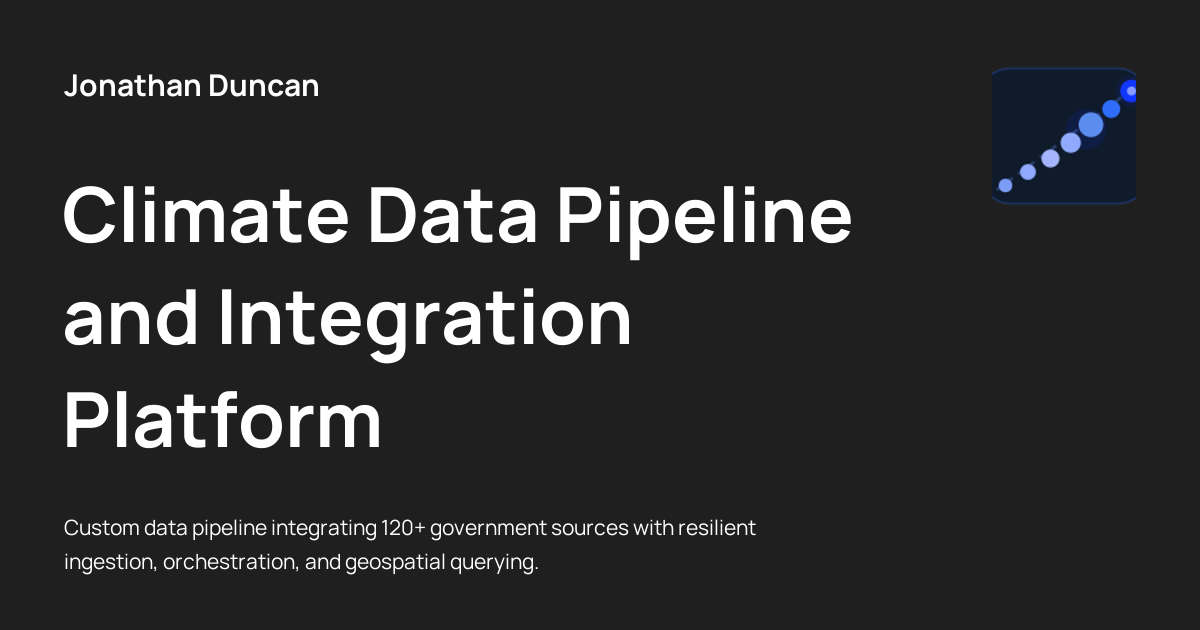
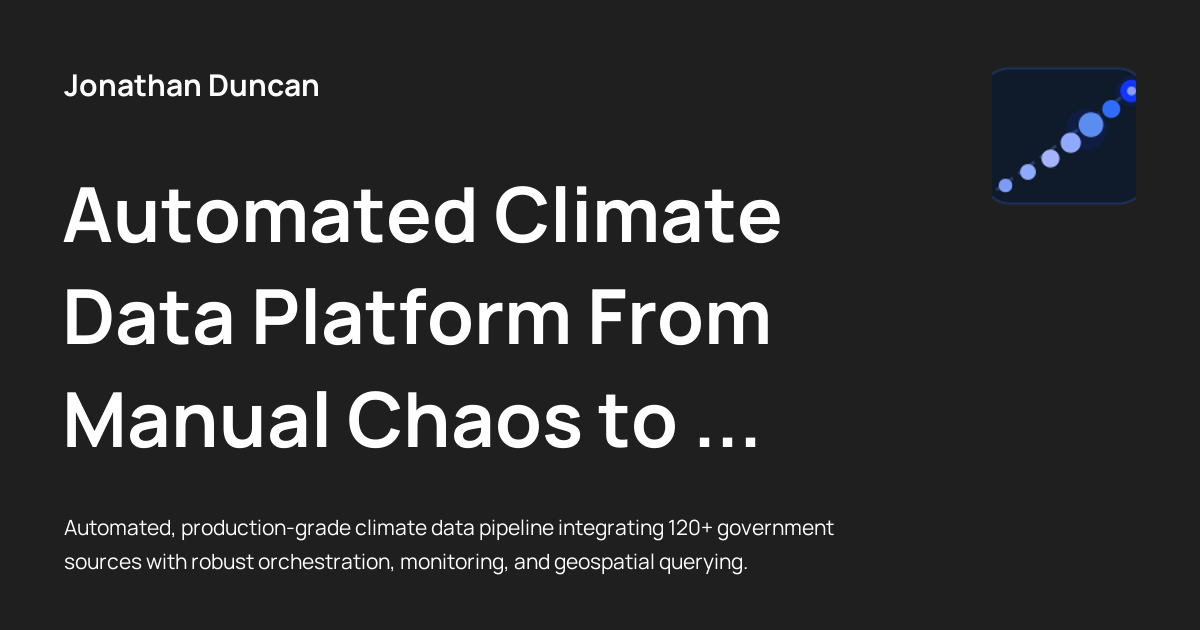
Add new project URLs to sitemap.xml and update sitemap.gz

diff --git a/site/portfolio/projects/climate-data-pipeline/index.html b/site/portfolio/projects/climate-data-pipeline/index.html
@@ -6,7 +6,7 @@
       <meta charset="utf-8">
       <meta name="viewport" content="width=device-width,initial-scale=1">
       
-        <meta name="description" content="Custom data pipeline integrating 120+ government sources with resilient ingestion, orchestration, and geospatial querying.">
+        <meta name="description" content="Automated, production-grade climate data pipeline integrating 120+ government sources with robust orchestration, monitoring, and geospatial querying.">
       
       
       
@@ -27,7 +27,7 @@
     
     
       
-        <title>Climate Data Pipeline and Integration Platform - Jonathan Duncan</title>
+        <title>Automated Climate Data Platform From Manual Chaos to Enterprise-Grade Reliability - Jonathan Duncan</title>
       
     
     
@@ -71,16 +71,16 @@
 
   
 <meta property="og:type" content="website" />
-<meta property="og:title" content="Climate Data Pipeline and Integration Platform - Jonathan Duncan" />
-<meta property="og:description" content="Custom data pipeline integrating 120+ government sources with resilient ingestion, orchestration, and geospatial querying." />
+<meta property="og:title" content="Automated Climate Data Platform From Manual Chaos to Enterprise-Grade Reliability - Jonathan Duncan" />
+<meta property="og:description" content="Automated, production-grade climate data pipeline integrating 120+ government sources with robust orchestration, monitoring, and geospatial querying." />
 <meta property="og:image" content="https://jonathanduncan.pro/assets/images/social/portfolio/projects/climate-data-pipeline.png" />
 <meta property="og:image:type" content="image/png" />
 <meta property="og:image:width" content="1200" />
 <meta property="og:image:height" content="630" />
 <meta property="og:url" content="https://jonathanduncan.pro/portfolio/projects/climate-data-pipeline/" />
 <meta property="twitter:card" content="summary_large_image" />
-<meta property="twitter:title" content="Climate Data Pipeline and Integration Platform - Jonathan Duncan" />
-<meta property="twitter:description" content="Custom data pipeline integrating 120+ government sources with resilient ingestion, orchestration, and geospatial querying." />
+<meta property="twitter:title" content="Automated Climate Data Platform From Manual Chaos to Enterprise-Grade Reliability - Jonathan Duncan" />
+<meta property="twitter:description" content="Automated, production-grade climate data pipeline integrating 120+ government sources with robust orchestration, monitoring, and geospatial querying." />
 <meta property="twitter:image" content="https://jonathanduncan.pro/assets/images/social/portfolio/projects/climate-data-pipeline.png" />
 </head>
   
@@ -145,7 +145,7 @@
         <div class="md-header__topic" data-md-component="header-topic">
           <span class="md-ellipsis">
             
-              Climate Data Pipeline and Integration Platform
+              Automated Climate Data Platform From Manual Chaos to Enterprise-Grade Reliability
             
           </span>
         </div>
@@ -590,6 +590,17 @@
 </li>
       
         <li class="md-nav__item">
+  <a href="#system-architecture" class="md-nav__link">
+    <span class="md-ellipsis">
+      
+        System Architecture
+      
+    </span>
+  </a>
+  
+</li>
+      
+        <li class="md-nav__item">
   <a href="#approach" class="md-nav__link">
     <span class="md-ellipsis">
       
@@ -622,6 +633,17 @@
   
     <nav class="md-nav" aria-label="Outcomes">
       <ul class="md-nav__list">
+        
+          <li class="md-nav__item">
+  <a href="#before-after" class="md-nav__link">
+    <span class="md-ellipsis">
+      
+        Before &amp; After
+      
+    </span>
+  </a>
+  
+</li>
         
           <li class="md-nav__item">
   <a href="#need-to-unify-data-from-many-unreliable-sources" class="md-nav__link">
@@ -760,37 +782,86 @@
 <div class="admonition abstract">
 <p class="admonition-title">Project Snapshot</p>
 <p><strong>Client type:</strong> Climate research organization<br />
-<strong>Project type:</strong> Data pipeline and integration platform<br />
-<strong>Stack:</strong> Python, Apache Airflow, PostgreSQL/PostGIS, GCP, Google Earth Engine<br />
-<strong>Role:</strong> Sole developer - architecture, build, and deployment<br />
-<strong>Timeline:</strong> Full build and deployment</p>
+<strong>Project type:</strong> Automated data pipeline and integration platform<br />
+<strong>Stack:</strong> Python, Apache Airflow (Cloud Composer), PostgreSQL/PostGIS, GCP<br />
+<strong>Role:</strong> Sole developer — architecture, build, and deployment<br />
+<strong>Timeline:</strong> 3.5+ years of continuous delivery and expansion</p>
 </div>
 <h2 id="challenge">Challenge</h2>
-<p>The client needed reliable aggregation from 120+ government data sources for analysis and reporting. Each source had different APIs, formats, authentication, and update schedules. Manual collection created delays, inconsistent data quality, and significant operational overhead.</p>
+<p>A leading Canadian climate research organization was drowning in manual data collection. With over 120 government sources (GeoMet &amp; PAVICS), each using different APIs, authentication, and data formats, analysts spent weeks wrangling data instead of delivering insights. The lack of automation meant slow updates, high error rates, and no scalable way to add new sources—putting critical research and operational decisions at risk.</p>
 <h2 id="goal">Goal</h2>
-<p>Build a dependable production pipeline that could ingest, normalize, and unify source data automatically, while handling source instability and schema variation over time.</p>
+<p>Deliver a fully automated, production-ready data pipeline that could ingest, normalize, and unify 120+ government data sources, handle source instability, and support advanced geospatial queries—freeing analysts to focus on research, not wrangling.</p>
+<h2 id="system-architecture">System Architecture</h2>
+<pre class="mermaid"><code>flowchart TD
+    subgraph GCP["Google Cloud Platform"]
+        Airflow["Apache Airflow (Cloud Composer)&lt;br&gt;Orchestration"]
+        Storage["GCS Buckets&lt;br&gt;Automated Storage"]
+        DB["PostgreSQL + PostGIS&lt;br&gt;Geospatial DB"]
+        Monitoring["Monitoring &amp; Alerting"]
+    end
+    subgraph Sources["120+ Government Data Sources"]
+        GeoMet["GeoMet APIs"]
+        PAVICS["PAVICS APIs"]
+        Others["Other APIs"]
+    end
+    subgraph Connectors["Modular Connectors"]
+        Connector1["Auth, Parsing,&lt;br&gt;Error Handling"]
+    end
+    Sources --&gt; Connectors
+    Connectors --&gt; Airflow
+    Airflow --&gt; Storage
+    Airflow --&gt; DB
+    Airflow --&gt; Monitoring
+    Storage --&gt; DB
+    DB --&gt;|Geospatial Queries| Analyst["Analyst / Researcher"]
+    Monitoring --&gt;|Alerts, Logs| Analyst
+
+    %% Accessible color tokens (see docs/stylesheets/extra.css)
+    %% --color-royal-blue: #1136FF; --color-cornflower: #2F6CF9; --color-periwinkle: #A5B4FC; --color-amber: #F59E0B;
+    classDef royalblue fill:#1136FF,stroke:#1136FF,stroke-width:2.5px,color:#fff,font-weight:bold;
+    classDef cornflower fill:#2F6CF9,stroke:#1136FF,stroke-width:2.5px,color:#111827,font-weight:bold;
+    classDef periwinkle fill:#A5B4FC,stroke:#2F6CF9,stroke-width:2.5px,color:#111827,font-weight:bold;
+    classDef amber fill:#F59E0B,stroke:#B45309,stroke-width:2.5px,color:#111827,font-weight:bold;
+    classDef quiet fill:#e2e4eb,stroke:#A5B4FC,stroke-width:2px,color:#111827;
+
+    class GCP royalblue;
+    class Airflow,DB cornflower;
+    class Storage,GeoMet,PAVICS,Others,Analyst periwinkle;
+    class Monitoring amber;
+    class Connectors,Connector1 quiet;
+    %% To further reduce intensity, use 'quiet' for more nodes if needed.
+</code></pre>
+<div style="font-size:0.95em;color:#9499b0;margin-top:0.5em">
+<strong>Accessibility & Theming:</strong> Diagram colors use extracted CSS tokens for brand consistency and contrast. For dark/light mode, colors adapt via <code>extra.css</code>.<br>
+<strong>Mobile:</strong> If the diagram overflows, swipe horizontally to view all nodes. For best experience, rotate your device to landscape.
+<strong>Responsive:</strong> On mobile, scroll horizontally to view the full diagram.
+</div>
+
 <h2 id="approach">Approach</h2>
-<p>I designed and implemented a custom pipeline architecture built for source-level variability and operational resilience:</p>
+<p>I designed and implemented a robust, modular pipeline architecture built for scale and operational resilience:</p>
 <ul>
-<li><strong>Source-specific connectors:</strong> Custom logic per data source for API differences, auth methods, and format variations</li>
-<li><strong>Workflow orchestration:</strong> Airflow DAGs to schedule ingestion cadences, dependencies, retries, and failure handling</li>
-<li><strong>Resilience patterns:</strong> Alerting, retry strategies, and graceful degradation for unstable endpoints</li>
-<li><strong>Data normalization layer:</strong> Standardized ingestion outputs into a consistent structure for downstream use</li>
-<li><strong>Geospatial-ready storage:</strong> PostGIS-backed data model for mapping and environmental analysis</li>
+<li><strong>Enterprise-Grade Cloud Architecture:</strong> Deployed on Google Cloud Platform using Apache Airflow (Cloud Composer) for orchestration.</li>
+<li><strong>Modular Connector Framework:</strong> Pluggable connectors for each data source, handling unique auth, parsing, and error recovery.</li>
+<li><strong>Automated Infrastructure:</strong> Timestamped bucket creation, collision avoidance, and lifecycle policies for robust data management.</li>
+<li><strong>Zero-Downtime Deployments:</strong> PowerShell and Python scripts for consistent, reliable releases.</li>
+<li><strong>Comprehensive Monitoring:</strong> Integrated alerting, retry policies, and dead-letter queues for operational resilience.</li>
+<li><strong>Spatial Data Support:</strong> PostgreSQL + PostGIS for advanced geographic queries.</li>
 </ul>
 <h2 id="key-architecture-decisions">Key Architecture Decisions</h2>
 <ul>
-<li><strong>Airflow orchestration over cron scripts</strong> to manage interdependent pipelines and operational visibility</li>
-<li><strong>PostGIS data model</strong> to support geospatial use cases natively instead of bolting it on later</li>
-<li><strong>Per-source integration strategy</strong> over generic connectors to handle high variation across 120+ inputs</li>
-<li><strong>Observability-first design</strong> so failures are surfaced early instead of becoming silent data gaps</li>
+<li><strong>Airflow orchestration</strong> for managing complex, interdependent pipelines and operational visibility.</li>
+<li><strong>Per-source modular connectors</strong> to handle high variation across 120+ inputs.</li>
+<li><strong>Observability-first design</strong> so failures are surfaced early, not hidden.</li>
+<li><strong>PostGIS data model</strong> to support geospatial use cases natively.</li>
 </ul>
 <h2 id="outcomes">Outcomes</h2>
 <ul>
-<li>Automated ingestion across 120+ disparate government sources</li>
-<li>Replaced manual collection with scheduled, monitored pipeline operations</li>
-<li>Improved reliability and freshness of data used for climate analysis workflows</li>
-<li>Created a unified geospatial data foundation for reporting and downstream applications</li>
+<li><strong>120+ government sources integrated</strong> into a single, normalized platform (GeoMet: 99, PAVICS: 20+)</li>
+<li><strong>Data collection time reduced</strong> from weeks to hourly automation</li>
+<li><strong>Analyst productivity unlocked:</strong> Time spent on manual collection now redirected to high-value research</li>
+<li><strong>Zero-downtime deployments and robust error recovery</strong></li>
+<li><strong>Operational reliability:</strong> 24/7 system uptime, comprehensive monitoring, and rapid onboarding for new team members</li>
+<li><strong>Long-term partnership:</strong> 3.5+ years of continuous delivery and feature expansion</li>
 </ul>
 <div class="admonition tip">
 <p class="admonition-title">What this demonstrates</p>
@@ -800,6 +871,38 @@
 <li>Designing for long-term maintainability as source systems evolve</li>
 </ul>
 </div>
+<h3 id="before-after">Before &amp; After</h3>
+<table>
+<thead>
+<tr>
+<th>Metric</th>
+<th>Before (Manual)</th>
+<th>After (Automated)</th>
+</tr>
+</thead>
+<tbody>
+<tr>
+<td>Data source integration</td>
+<td>Weeks per source</td>
+<td>120+ sources, modular connectors</td>
+</tr>
+<tr>
+<td>Data freshness</td>
+<td>Manual, ad-hoc</td>
+<td>Automated, hourly to monthly</td>
+</tr>
+<tr>
+<td>Geographic querying</td>
+<td>Not available</td>
+<td>Full PostGIS support</td>
+</tr>
+<tr>
+<td>Data access</td>
+<td>None</td>
+<td>Fully searchable for internal use</td>
+</tr>
+</tbody>
+</table>
 <div class="cta-panel">
 <h3 id="need-to-unify-data-from-many-unreliable-sources">Need to unify data from many unreliable sources?</h3>
 <p>If your team is still spending time stitching together fragmented data manually, I can help you design a pipeline that is stable, maintainable, and built for scale.</p>
